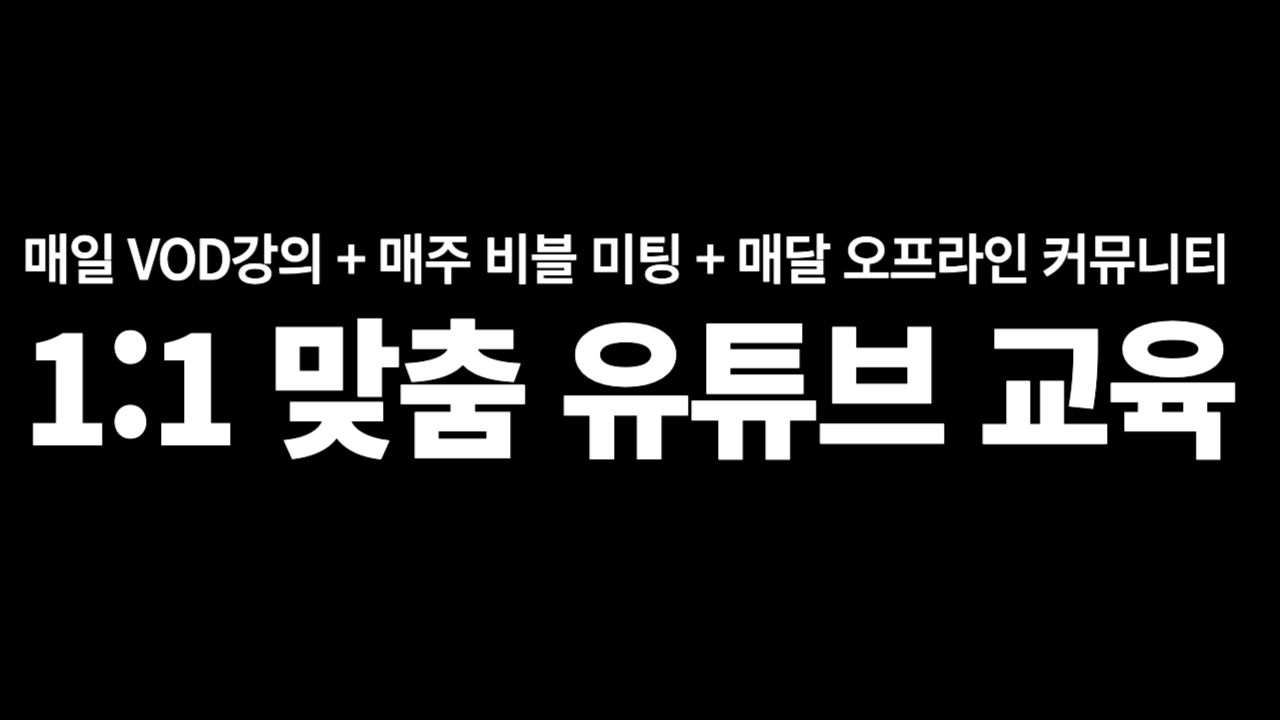
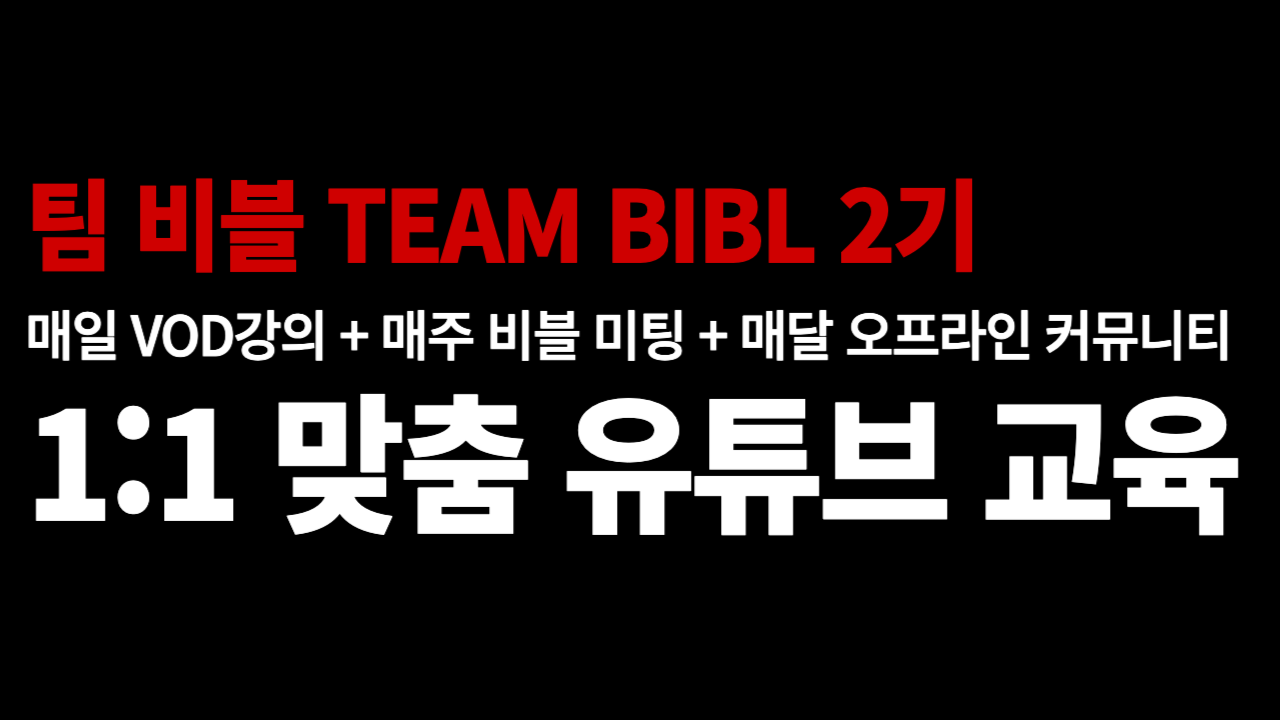
Update hero thumbnail to Team BIBL 2기 and change capacity to 10

Changed region(s): [[0.0, 0.4278, 0.9688, 0.7639], [0.0, 0.2444, 0.9688, 0.3972]]

diff --git a/src/app/studio/class/team-bibl/page.tsx b/src/app/studio/class/team-bibl/page.tsx
@@ -746,7 +746,7 @@ function PriceCard() {
                   <path strokeLinecap="round" strokeLinejoin="round" strokeWidth={1.8} d="M17 20h5v-2a4 4 0 00-5.916-3.519M9 20H4v-2a4 4 0 015.916-3.519M15 7a4 4 0 11-8 0 4 4 0 018 0zm6 4a3 3 0 11-6 0 3 3 0 016 0zM3 11a3 3 0 116 0 3 3 0 01-6 0z" />
                 </svg>
               ),
-              label: "모집 정원", value: "15명 한정",
+              label: "모집 정원", value: "10명 한정",
             },
             {
               icon: (
